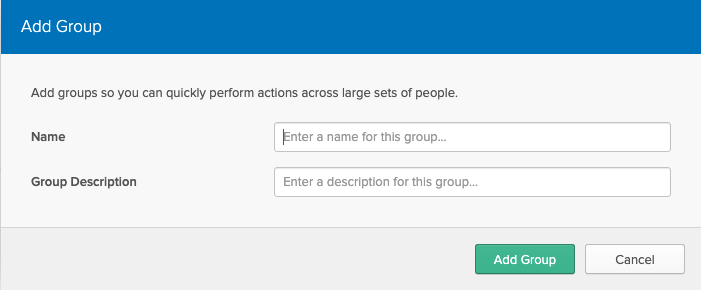
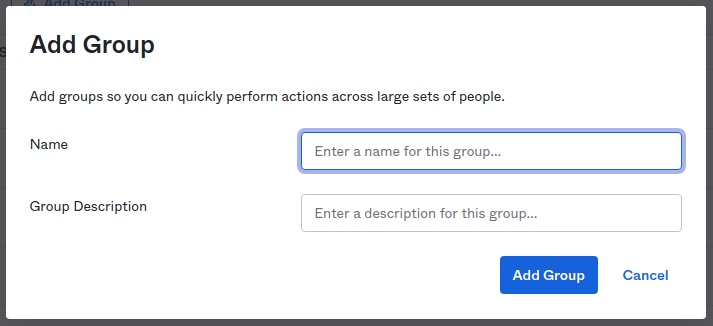
update okta-spring-security-featre-flags

diff --git a/_source/_posts/2020-10-09-okta-spring-security-feature-flags.md b/_source/_posts/2020-10-09-okta-spring-security-feature-flags.md
@@ -30,17 +30,17 @@ OpenID Connect (OIDC) rides on top of OAuth 2.0 for a modern Single Sign-on, aut
 
 > If you're interested in learning more about OIDC and OAuth 2.0, [here](https://developer.okta.com/blog/2017/07/25/oidc-primer-part-1) and [here](https://oauth.com) are good places to start. Look for more links to posts on OIDC and OAuth 2.0 at the end of this post.
 
-### Register for an Okta Org
+### Register for an Okta Org and Create an OIDC App
 
-Head on over to: [https://developer.okta.com/signup](https://developer.okta.com/signup). Fill out the form and click **Get Started**.
-
-You'll get an email from Okta to confirm your address. Click on **ACTIVATE MY ACCOUNT**. You'll next see an onboarding page in your Okta Org. You can skip this for now.
-
-Let's add a few users and groups for use later in the Spring Boot app.
+{% include setup/cli.md type="web" framework="Okta Spring Boot Starter"
+  loginRedirectUri="http://localhost:8080/login/oauth2/code/okta"
+  logoutRedirectUri="http://localhost:8080" %}
 
 #### Add Users to your Okta Org
 
-Click **Users** on the menu bar at the top. Here, you'll see the user already created for you with the name and email you submitted to create the Okta org.
+Head on over to http://{yourOktaDomain} and login.
+
+Click **Directory > People** on the menu on the left. Here, you'll see the user already created for you with the name and email you submitted to create the Okta org.
 
 Click **Add Person**. This will bring you to the input form for adding a new user:
 
@@ -60,11 +60,11 @@ Next, you'll add some groups and assign some users to those groups.
 
 #### Add Groups to your Okta Org
 
-Choose **Users > Groups** from the top level menu. Here, you'll see the built in `Everyone` group. As you might imagine, every current and new user is automatically added to this group.
+Choose **Directory > Groups** from the top level menu. Here, you'll see the built in `Everyone` group. As you might imagine, every current and new user is automatically added to this group.
 
 Click **Add Group**. This will bring you to the input form for adding a new group:
 
-{% img blog/okta-split-spring-security/new-user.png alt:"New User" width:"600" %}
+{% img blog/okta-split-spring-security/new-group.png alt:"New User" width:"600" %}
 
 Enter **BETA_TESTER** in both the **Name** and **Group Description** fields. Click **Add Group**.
 
@@ -72,21 +72,12 @@ Click the link to the newly created **BETA_TESTER** group. Click **Manage People
 
 Now, you're Okta org is configured with five users (the Belcher family), 3 of whom belong to the **BETA_TESTER** group.
 
-### Create an OIDC App in your Okta Org
 
-Next up, you'll create an OIDC app that the Spring Boot app uses below. A deep dive into how OIDC works is outside the scope of this post, but check the links at the bottom if you're interested in learning more about OIDC.
-
-Click **Applications** from the top menu bar.
-
-Click **Add Application**. Choose **Web** from the available app types and click **Next**. Update the **Name** field. Change the **Login redirect URIs** to: `http://localhost:8080/login/oauth2/code/okta`. Leave all the other fields as their defaults and click **Done** at the bottom.
-
-At the top of the **General** tab, you'll see the **Client Credentials** section at the top. Copy the values for **Client ID** and **Client secret**. You'll use these values below to configure Spring Boot.
-
-### Configure the OIDC App to Return Groups
+### Configure the OIDC App to Return Groups Claim
 
 The last Okta configuration step is to make sure that the list of groups a user belongs to is returned when a user authenticates. You'll see below that this integrates very easily with Spring Security.
 
-Click **API > Authorization Servers** from the top menu bar. Click the **default** link under the list of **Authorization Servers** (it should be the only one right now).
+Click **Security > API** from the top menu bar. Click the **default** link under the list of **Authorization Servers** (it should be the only one right now).
 
 Click the **Claims** tab. Click **Add Claim**:
 
@@ -123,7 +114,7 @@ For our purposes (and to keep things simple), you just need:
 
 {% img blog/okta-split-spring-security/spring-initializr.png alt:"Initializr" width:"600" %}
 
-Spring Initializr even makes it easy to load a pre-configured project from a [direct link](https://start.spring.io/#!type=maven-project&language=java&platformVersion=2.3.4.RELEASE&packaging=jar&jvmVersion=11&groupId=com.okta.examples&artifactId=okta-split-example&name=okta-split-example&description=Feature%20Flags%20with%20Okta%2C%20Split%20and%20Spring%20Security&packageName=com.okta.examples.okta_split_example&dependencies=web,thymeleaf,okta).
+Spring Initializr even makes it easy to load a pre-configured project from a [direct link](https://start.spring.io/#!type=maven-project&language=java&platformVersion=2.3.9.RELEASE&packaging=jar&jvmVersion=11&groupId=com.okta.examples&artifactId=okta-split-example&name=okta-split-example&description=Feature%20Flags%20with%20Okta%2C%20Split%20and%20Spring%20Security&packageName=com.okta.examples.okta_split_example&dependencies=web,thymeleaf,okta).
 
 And, you can download the project from the command line with:
 
@@ -131,7 +122,7 @@ And, you can download the project from the command line with:
 curl -G \
 --data 'type=maven-project' \
 --data 'language=java' \
---data 'bootVersion=2.3.4.RELEASE' \
+--data 'bootVersion=2.3.9.RELEASE' \
 --data 'baseDir=okta-split-example' \
 --data 'groupId=com.okta.examples' \
 --data 'artifactId=okta-split-example' \
@@ -151,7 +142,7 @@ You can also find the completed application over on the [Okta Developer GitHub r
 
 ### Integrate with Okta
 
-In order for this Spring Boot app to connect to your Okta org you need to set up an `src/main/resources/application.yml` file with just three configuration parameters:
+In order for this Spring Boot app to connect to your Okta org you need to rename `src/main/resources/application.properties` to `src/main/resources/application.yml`, and just set the three configuration parameters you got before, when creating the client app with Okta CLI:
 
 ```yaml
 okta:
@@ -242,7 +233,7 @@ Best of all, you could repeat this process, creating new beta experiences to be 
 Getting setup with a free developer account for Split is as easy as 1, 2, 3:
 
 1. Go to: <https://split.io>, click: Free Account
-2. Fill out the registration form and click: SIGN UP
+2. Fill out the registration form and click: CREATE FREE ACCOUNT
 3. Follow the link you receive in email and set a password.
 
 {% img blog/okta-split-spring-security/split.png alt:"split" width:"600" %}
